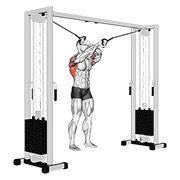
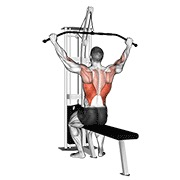
feat: integracion de demostraciones tecnicas animadas y guia biomecanica en vivo

diff --git a/src/components/ExerciseTechniqueModal.tsx b/src/components/ExerciseTechniqueModal.tsx
@@ -1,0 +1,212 @@
+import React, { useState } from 'react';
+import {
+  X,
+  Play,
+  Pause,
+  Sparkles,
+  ShieldAlert,
+  Activity,
+  CheckCircle2,
+  Info,
+  Dumbbell
+} from 'lucide-react';
+import { CatalogExercise } from '../types';
+import { getExerciseMedia } from '../data/exerciseMedia';
+
+interface ExerciseTechniqueModalProps {
+  exercise: CatalogExercise | null;
+  isOpen: boolean;
+  onClose: () => void;
+}
+
+export const ExerciseTechniqueModal: React.FC<ExerciseTechniqueModalProps> = ({
+  exercise,
+  isOpen,
+  onClose,
+}) => {
+  const [isPlaying, setIsPlaying] = useState<boolean>(true);
+  const [activeTab, setActiveTab] = useState<'demo' | 'instructions'>('demo');
+
+  if (!isOpen || !exercise) return null;
+
+  const media = getExerciseMedia(exercise.id);
+
+  return (
+    <div
+      onClick={onClose}
+      className="fixed inset-0 z-50 flex items-center justify-center bg-slate-950/85 backdrop-blur-md p-3 sm:p-4 animate-in fade-in duration-200"
+    >
+      <div
+        onClick={(e) => e.stopPropagation()}
+        className="bg-slate-900 border border-slate-800 rounded-3xl max-w-lg w-full max-h-[92vh] flex flex-col shadow-2xl overflow-hidden relative"
+      >
+        {/* Glow ambient background */}
+        <div className="absolute -top-20 -right-20 w-44 h-44 bg-sky-500/15 rounded-full blur-3xl pointer-events-none" />
+
+        {/* Modal Header */}
+        <div className="p-4 sm:p-5 border-b border-slate-800 flex items-center justify-between shrink-0 bg-slate-900/90 backdrop-blur-sm">
+          <div className="flex items-center space-x-2.5">
+            <div className="w-9 h-9 rounded-xl bg-sky-500/15 border border-sky-500/30 text-sky-400 flex items-center justify-center shrink-0">
+              <Dumbbell className="w-5 h-5" />
+            </div>
+            <div>
+              <h3 className="text-base font-black text-white leading-tight">
+                {exercise.name}
+              </h3>
+              <div className="flex items-center space-x-2 mt-0.5">
+                <span className="text-[10px] font-bold text-sky-400 bg-sky-950/80 px-2 py-0.5 rounded-md border border-sky-800/60 uppercase">
+                  {exercise.primaryMuscle}
+                </span>
+                <span className="text-[10px] text-slate-400 bg-slate-950 px-2 py-0.5 rounded-md capitalize">
+                  {exercise.category}
+                </span>
+              </div>
+            </div>
+          </div>
+
+          <button
+            type="button"
+            onClick={onClose}
+            className="p-2 rounded-xl text-slate-400 hover:text-white hover:bg-slate-800 transition"
+            title="Cerrar"
+          >
+            <X className="w-5 h-5" />
+          </button>
+        </div>
+
+        {/* Tab switcher: Demostración vs Instrucciones */}
+        <div className="px-4 pt-3 pb-1 shrink-0 flex items-center space-x-2 bg-slate-950/50">
+          <button
+            type="button"
+            onClick={() => setActiveTab('demo')}
+            className={`flex-1 py-2 rounded-xl text-xs font-bold transition flex items-center justify-center space-x-1.5 ${
+              activeTab === 'demo'
+                ? 'bg-sky-500 text-slate-950 font-black shadow-md shadow-sky-500/20'
+                : 'text-slate-400 hover:text-slate-200 hover:bg-slate-800'
+            }`}
+          >
+            <Play className="w-3.5 h-3.5 fill-current" />
+            <span>Demostración Visual</span>
+          </button>
+          <button
+            type="button"
+            onClick={() => setActiveTab('instructions')}
+            className={`flex-1 py-2 rounded-xl text-xs font-bold transition flex items-center justify-center space-x-1.5 ${
+              activeTab === 'instructions'
+                ? 'bg-sky-500 text-slate-950 font-black shadow-md shadow-sky-500/20'
+                : 'text-slate-400 hover:text-slate-200 hover:bg-slate-800'
+            }`}
+          >
+            <Info className="w-3.5 h-3.5" />
+            <span>Guía Biomecánica</span>
+          </button>
+        </div>
+
+        {/* Modal Body */}
+        <div className="p-4 sm:p-5 overflow-y-auto space-y-4 scrollbar-thin">
+          {activeTab === 'demo' ? (
+            <div className="space-y-4">
+              {/* Video / Animated Demonstration Player */}
+              <div className="relative rounded-2xl overflow-hidden bg-slate-950 border border-slate-800 flex items-center justify-center min-h-[260px] max-h-[340px]">
+                {media ? (
+                  <img
+                    src={isPlaying ? media.videoUrl : media.previewUrl}
+                    alt={`Demostración técnica de ${exercise.name}`}
+                    className="w-full h-full object-contain max-h-[340px] select-none"
+                    loading="eager"
+                  />
+                ) : (
+                  <div className="text-center p-8 space-y-2">
+                    <Activity className="w-10 h-10 text-slate-600 mx-auto animate-pulse" />
+                    <p className="text-xs text-slate-400">Demostración en preparación para este ejercicio.</p>
+                  </div>
+                )}
+
+                {/* Floating pause/play toggle */}
+                {media && (
+                  <button
+                    type="button"
+                    onClick={() => setIsPlaying(!isPlaying)}
+                    className="absolute bottom-3 right-3 p-2.5 rounded-xl bg-slate-950/80 backdrop-blur-md border border-slate-700 text-slate-200 hover:text-white hover:bg-slate-900 transition active:scale-95"
+                    title={isPlaying ? 'Pausar animación' : 'Reanudar animación'}
+                  >
+                    {isPlaying ? <Pause className="w-4 h-4" /> : <Play className="w-4 h-4 fill-current" />}
+                  </button>
+                )}
+              </div>
+
+              {/* Anatomy & Muscles Targeted Chips */}
+              <div className="bg-slate-950/70 p-3.5 rounded-2xl border border-slate-800 space-y-2">
+                <div className="text-[11px] font-bold text-slate-400 uppercase tracking-wider flex items-center justify-between">
+                  <span>Músculos Involucrados</span>
+                  <span className="text-emerald-400 font-mono text-[10px]">Tensión Mecánica</span>
+                </div>
+                <div className="flex flex-wrap items-center gap-1.5">
+                  <span className="px-2.5 py-1 rounded-lg bg-emerald-500/20 text-emerald-400 border border-emerald-500/30 text-xs font-black capitalize">
+                    {exercise.primaryMuscle} (Motor Primario)
+                  </span>
+                  {media && media.secondaryMuscles.map((sec, idx) => (
+                    <span
+                      key={idx}
+                      className="px-2 py-0.5 rounded-lg bg-slate-900 text-slate-300 border border-slate-800 text-[11px] capitalize"
+                    >
+                      {sec}
+                    </span>
+                  ))}
+                </div>
+              </div>
+            </div>
+          ) : (
+            <div className="space-y-3">
+              {/* Step by step instructions in Spanish */}
+              <div className="space-y-2">
+                <div className="text-xs font-black text-sky-400 uppercase tracking-wider flex items-center space-x-1.5">
+                  <CheckCircle2 className="w-4 h-4" />
+                  <span>Pasos de Ejecución Técnica</span>
+                </div>
+
+                <div className="space-y-2">
+                  {media && media.instructionsEs.map((step, idx) => (
+                    <div
+                      key={idx}
+                      className="p-3 rounded-2xl bg-slate-950/70 border border-slate-800 flex items-start space-x-3 text-xs"
+                    >
+                      <div className="w-6 h-6 rounded-lg bg-sky-500/15 border border-sky-500/30 text-sky-400 font-mono font-bold flex items-center justify-center shrink-0 mt-0.5">
+                        {idx + 1}
+                      </div>
+                      <p className="text-slate-300 leading-relaxed font-medium">
+                        {step}
+                      </p>
+                    </div>
+                  ))}
+                </div>
+              </div>
+
+              {/* Biomechanical safety & cues alert */}
+              <div className="p-3.5 rounded-2xl bg-amber-500/10 border border-amber-500/25 flex items-start space-x-3 text-xs text-amber-300">
+                <ShieldAlert className="w-4 h-4 text-amber-400 shrink-0 mt-0.5" />
+                <div className="space-y-0.5">
+                  <div className="font-bold">Punto de Control & Seguridad:</div>
+                  <p className="text-amber-300/90 leading-relaxed text-[11px]">
+                    Mantén una fase excéntrica controlada (2-3 segundos) para maximizar el daño muscular ultraestructural sin balanceos ni inercia compensatoria.
+                  </p>
+                </div>
+              </div>
+            </div>
+          )}
+        </div>
+
+        {/* Modal Footer */}
+        <div className="p-4 border-t border-slate-800 bg-slate-900/90 shrink-0 flex items-center justify-end">
+          <button
+            type="button"
+            onClick={onClose}
+            className="w-full sm:w-auto px-6 py-2.5 rounded-xl bg-sky-500 hover:bg-sky-400 active:scale-95 text-slate-950 font-black text-xs uppercase tracking-wider transition shadow-lg shadow-sky-500/20"
+          >
+            Entendido, volver a la serie
+          </button>
+        </div>
+      </div>
+    </div>
+  );
+};

diff --git a/src/components/ActiveExerciseCard.tsx b/src/components/ActiveExerciseCard.tsx
@@ -9,7 +9,8 @@ import {
   CheckCircle2,
   Activity,
   Flame,
-  Dumbbell
+  Dumbbell,
+  Play
 } from 'lucide-react';
 import {
   Exercise,
@@ -37,6 +38,7 @@ interface ActiveExerciseCardProps {
   onAddSet: () => void;
   onDeleteSet: (setIndex: number) => void;
   onOpenSubstitute: () => void;
+  onOpenTechnique?: () => void;
   onAutoFill: (rec: RecommendationResult) => void;
   isActiveFocus?: boolean;
 }
@@ -54,6 +56,7 @@ export const ActiveExerciseCard: React.FC<ActiveExerciseCardProps> = ({
   onAddSet,
   onDeleteSet,
   onOpenSubstitute,
+  onOpenTechnique,
   onAutoFill,
   isActiveFocus = false,
 }) => {
@@ -123,16 +126,30 @@ export const ActiveExerciseCard: React.FC<ActiveExerciseCardProps> = ({
             </div>
           </div>
 
-          {/* Biomechanical Substitute Action */}
-          <button
-            type="button"
-            onClick={onOpenSubstitute}
-            className="flex items-center space-x-1.5 px-3 py-2 rounded-xl bg-zinc-800 hover:bg-zinc-700/80 active:scale-95 border border-zinc-700 text-zinc-300 hover:text-white text-xs font-bold transition-all shrink-0 self-start sm:self-auto touch-manipulation"
-            title="Sustituir por una alternativa biomecánica equivalente"
-          >
-            <RefreshCw className="w-3.5 h-3.5 text-red-400" />
-            <span>Sustituir</span>
-          </button>
+          {/* Actions: Técnica & Sustituir */}
+          <div className="flex items-center space-x-2 shrink-0 self-start sm:self-auto">
+            {onOpenTechnique && (
+              <button
+                type="button"
+                onClick={onOpenTechnique}
+                className="flex items-center space-x-1.5 px-3 py-2 rounded-xl bg-sky-500/10 hover:bg-sky-500/20 active:scale-95 border border-sky-500/30 text-sky-400 hover:text-sky-300 text-xs font-bold transition-all touch-manipulation"
+                title="Ver demostración visual y técnica de ejecución"
+              >
+                <Play className="w-3.5 h-3.5 fill-current" />
+                <span>Ver Técnica</span>
+              </button>
+            )}
+
+            <button
+              type="button"
+              onClick={onOpenSubstitute}
+              className="flex items-center space-x-1.5 px-3 py-2 rounded-xl bg-zinc-800 hover:bg-zinc-700/80 active:scale-95 border border-zinc-700 text-zinc-300 hover:text-white text-xs font-bold transition-all touch-manipulation"
+              title="Sustituir por una alternativa biomecánica equivalente"
+            >
+              <RefreshCw className="w-3.5 h-3.5 text-zinc-400" />
+              <span>Sustituir</span>
+            </button>
+          </div>
         </div>
       </div>
 

diff --git a/src/data/exerciseMedia.ts b/src/data/exerciseMedia.ts
@@ -167,20 +167,19 @@ export const EXERCISE_MEDIA_MAP: Record<string, ExerciseMediaGuide> = {
   },
   "jalon_pecho_barra": {
     "internalId": "jalon_pecho_barra",
-    "datasetId": "2330",
-    "matchedName": "cable lat pulldown full range of motion",
+    "datasetId": "0197",
+    "matchedName": "cable pulldown (pro lat bar)",
     "targetMuscle": "lats",
     "secondaryMuscles": [
       "biceps",
-      "rhomboids",
-      "rear deltoids"
+      "forearms"
     ],
     "equipment": "cable",
     "previewUrl": "/exercises/previews/jalon_pecho_barra.jpg",
-    "videoUrl": "https://cdn.jsdelivr.net/gh/hasaneyldrm/exercises-dataset@main/videos/2330-LEprlgG.gif",
-    "rawVideoUrl": "https://raw.githubusercontent.com/hasaneyldrm/exercises-dataset/main/videos/2330-LEprlgG.gif",
+    "videoUrl": "https://cdn.jsdelivr.net/gh/hasaneyldrm/exercises-dataset@main/videos/0197-qdRxqCj.gif",
+    "rawVideoUrl": "https://raw.githubusercontent.com/hasaneyldrm/exercises-dataset/main/videos/0197-qdRxqCj.gif",
     "instructionsEs": [
-      "Siéntate en la máquina de jalón al pecho con las rodillas colocadas debajo de las almohadillas. Sujeta la barra del cable con un agarre prono, un poco más separado que el ancho de los hombros. Inclínate ligeramente hacia atrás y mantén el pecho elevado, conservando un ligero arco en la zona lumbar. Jala la barra hacia la parte superior del pecho, apretando los omóplatos entre sí. Haz una pausa por un momento en la parte baja del movimiento y luego suelta lentamente la barra de vuelta a la posición inicial. Repite el número de repeticiones deseado."
+      "Ajusta la altura del asiento para que tus muslos queden paralelos al suelo y tus pies queden apoyados planos en el suelo. Sujeta la barra de jalón con un agarre prono, un poco más separado que el ancho de los hombros. Siéntate e inclínate ligeramente hacia atrás, manteniendo el pecho elevado y la espalda recta. Jala la barra hacia el pecho, apretando los omóplatos entre sí. Haz una pausa por un momento en la parte baja del movimiento y luego suelta lentamente la barra de vuelta a la posición inicial. Repite el número de repeticiones deseado."
     ]
   },
   "remo_barra": {

diff --git a/src/pages/ActiveWorkoutPage.tsx b/src/pages/ActiveWorkoutPage.tsx
@@ -48,6 +48,7 @@ import { RestTimer } from '../components/RestTimer';
 import { ExerciseSubstituteModal } from '../components/ExerciseSubstituteModal';
 import { ActiveExerciseCard } from '../components/ActiveExerciseCard';
 import { WorkoutSummaryModal, WorkoutSummaryData } from '../components/WorkoutSummaryModal';
+import { ExerciseTechniqueModal } from '../components/ExerciseTechniqueModal';
 
 interface ActiveWorkoutPageProps {
   routine: Routine | null;
@@ -88,6 +89,9 @@ export const ActiveWorkoutPage: React.FC<ActiveWorkoutPageProps> = ({
   // Substitute Modal State
   const [substituteModalOpen, setSubstituteModalOpen] = useState<boolean>(false);
   const [exerciseToSubstitute, setExerciseToSubstitute] = useState<Exercise | null>(null);
+
+  // Technique / Video Demo Modal State
+  const [techniqueExercise, setTechniqueExercise] = useState<Exercise | null>(null);
 
   // Victory / Completion Modal
   const [showCompletionModal, setShowCompletionModal] = useState<boolean>(false);
@@ -627,6 +631,7 @@ export const ActiveWorkoutPage: React.FC<ActiveWorkoutPageProps> = ({
                 onAddSet={() => handleAddSet(exercise, index)}
                 onDeleteSet={(sIdx) => handleDeleteSet(exercise.id, sIdx)}
                 onOpenSubstitute={() => handleOpenSubstitute(exercise)}
+                onOpenTechnique={() => setTechniqueExercise(exercise)}
                 onAutoFill={(r) => handleAutoFill(exercise.id, r)}
                 isActiveFocus={isActive}
               />
@@ -695,6 +700,13 @@ export const ActiveWorkoutPage: React.FC<ActiveWorkoutPageProps> = ({
           setShowCompletionModal(false);
           onFinishWorkout();
         }}
+      />
+
+      {/* 8. Exercise Technique & Biomechanical Demo Modal */}
+      <ExerciseTechniqueModal
+        exercise={techniqueExercise}
+        isOpen={!!techniqueExercise}
+        onClose={() => setTechniqueExercise(null)}
       />
     </div>
   );
